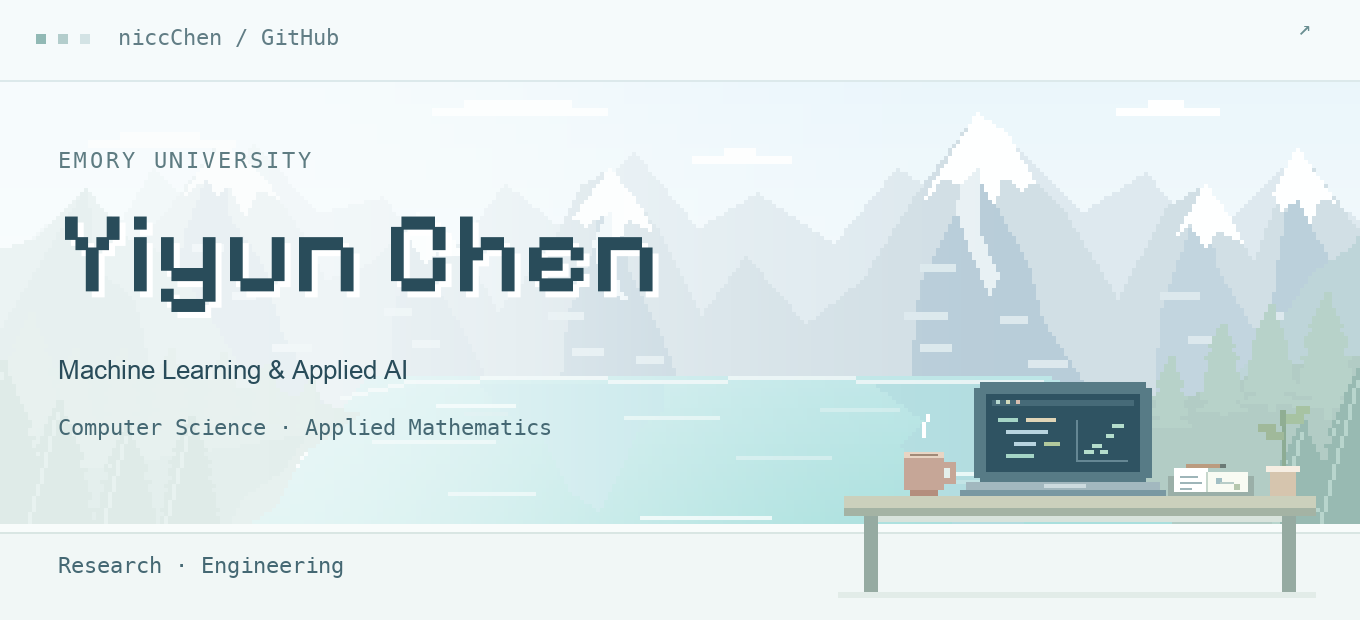
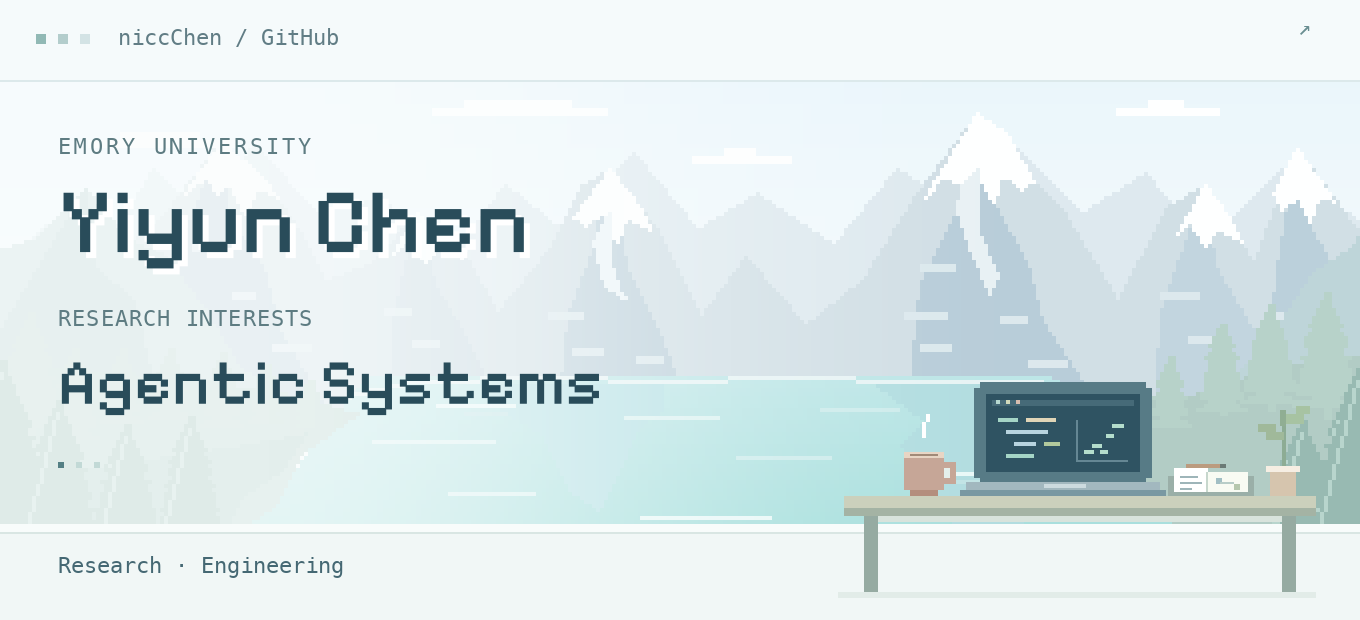
Highlight research interests with rotating pixel typography

Changed region(s): [[0.0309, 0.3065, 0.4941, 0.521], [0.0309, 0.5823, 0.4632, 0.7048], [0.0309, 0.2145, 0.2162, 0.2758]]

diff --git a/tools/build_assets.py b/tools/build_assets.py
@@ -12,6 +12,8 @@ PREVIEW = ROOT / ".preview"
 PREVIEW.mkdir(exist_ok=True)
 SCALE = 2
 WIDTH, HEIGHT = 680, 310
+BANNER_SECONDS = 9
+RESEARCH_INTERESTS = ("Agentic Systems", "NLP", "Probabilistic Forecasting")
 
 
 def font(name, size):
@@ -29,7 +31,8 @@ def font(name, size):
     raise FileNotFoundError(f"Install a font for {name}: {options[name]}")
 
 
-FONTS = {"pixel": font("pixel", 58), "small": font("mono", 11), "body": font("sans", 13)}
+FONTS = {"pixel": font("pixel", 46), "small": font("mono", 11),
+         "body": font("sans", 13), "focus": font("pixel", 32)}
 P = dict(edge="#62608b", frame="#8982ad", sky="#282443", night="#302b4e", moon="#ebe1ff", star="#cec1ee", cloud="#5d5686", desk="#b7a5d2", deskedge="#7e7198", cat="#ded6f0", catshade="#b5a6cd", ear="#a18daf", screen="#20223a", code="#a9d9cf", leaf="#9dbdb9", pot="#d8a7ba")
 
 
@@ -120,12 +123,12 @@ def draw_scene(img, t):
 def build_banner():
     from workspace_banner import make_frame
 
-    frames=[make_frame(i/10) for i in range(80)]
+    frames=[make_frame(i/10) for i in range(BANNER_SECONDS*10)]
     frames[0].save(ASSETS/"banner-work-life-static.png",optimize=True)
     palette=frames[0].quantize(colors=192,method=Image.Quantize.MEDIANCUT)
     indexed=[im.quantize(palette=palette,dither=Image.Dither.NONE) for im in frames]
     indexed[0].save(ASSETS/"banner-work-life.gif",save_all=True,append_images=indexed[1:],duration=100,loop=0,optimize=True,disposal=1)
-    samples=[frames[i].resize((680,310),Image.Resampling.LANCZOS) for i in [0,26,53,79]]
+    samples=[frames[i].resize((680,310),Image.Resampling.LANCZOS) for i in [0,30,60,89]]
     contact=Image.new("RGB",(1360,620),"white")
     for i,im in enumerate(samples):contact.paste(im,((i%2)*680,(i//2)*310))
     contact.save(PREVIEW/"banner-contact-sheet.png")
@@ -134,9 +137,10 @@ def build_banner():
 
 SKILLS=[
     ("Languages",[("Python","python"),("C#","csharp")]),
-    ("ML & vision",[("PyTorch","pytorch"),("OpenCV","opencv"),("SciPy",None),("scikit-image",None)]),
-    ("Data & viz",[("NumPy","numpy"),("pandas","pandas"),("Matplotlib",None),("Jupyter","jupyter")]),
-    ("Engineering",[("RAG",None),("MCP",None),(".NET",None),("Avalonia",None)]),
+    ("AI & NLP",[("PyTorch","pytorch"),("Transformers",None),("RAG",None),("MCP",None)]),
+    ("Data & scientific computing",[("NumPy","numpy"),("pandas","pandas"),("SciPy",None),("PyAMG",None),("Optuna",None)]),
+    ("Vision & visualization",[("OpenCV","opencv"),("scikit-image",None),("Matplotlib",None)]),
+    ("Engineering & tools",[(".NET",None),("Avalonia",None),("Pydantic",None),("Jupyter","jupyter"),("Git",None),("pytest",None)]),
 ]
 NS="http://www.w3.org/2000/svg"
 ET.register_namespace("",NS)
@@ -147,20 +151,20 @@ def slug(label):return label.lower().replace("#","sharp").replace(".","dot").rep
 
 def build_badges():
     widths={}
-    label_font=font("sans",12)
+    label_font=font("sans",14)
     for _,skills in SKILLS:
         for label,icon in skills:
-            width=math.ceil(label_font.getlength(label)/SCALE)+20+(21 if icon else 0)
+            width=math.ceil(label_font.getlength(label)/SCALE)+24+(24 if icon else 0)
             widths[label]=width
-            for theme,background,line,foreground in [("light","#eff7f6","#c9dedb","#456873"),("dark","#20343b","#38535d","#b2d6d5")]:
-                svg=ET.Element(f"{{{NS}}}svg",width=str(width),height="30",viewBox=f"0 0 {width} 30",role="img")
+            for theme,background,line,foreground in [("light","#eff7f6","#bfd8d4","#315661"),("dark","#20343b","#47626b","#c5e5e2")]:
+                svg=ET.Element(f"{{{NS}}}svg",width=str(width),height="36",viewBox=f"0 0 {width} 36",role="img")
                 ET.SubElement(svg,f"{{{NS}}}title").text=label
-                ET.SubElement(svg,f"{{{NS}}}rect",x=".5",y=".5",width=str(width-1),height="29",rx="6",fill=background,stroke=line)
+                ET.SubElement(svg,f"{{{NS}}}rect",x=".5",y=".5",width=str(width-1),height="35",rx="6",fill=background,stroke=line)
                 if icon:
                     source=ET.parse(ASSETS/f"icons/{icon}.svg").getroot()
-                    nested=ET.SubElement(svg,f"{{{NS}}}svg",x="9",y="7.5",width="15",height="15",viewBox=source.get("viewBox","0 0 128 128"))
+                    nested=ET.SubElement(svg,f"{{{NS}}}svg",x="11",y="9",width="18",height="18",viewBox=source.get("viewBox","0 0 128 128"))
                     for child in source:nested.append(deepcopy(child))
-                labelnode=ET.SubElement(svg,f"{{{NS}}}text",x="30" if icon else "10",y="19",fill=foreground,attrib={"font-family":"Arial, Helvetica, sans-serif","font-size":"12"})
+                labelnode=ET.SubElement(svg,f"{{{NS}}}text",x="36" if icon else "12",y="23",fill=foreground,attrib={"font-family":"Arial, Helvetica, sans-serif","font-size":"14"})
                 labelnode.text=label
                 ET.ElementTree(svg).write(ASSETS/f"badges/{slug(label)}-lake-{theme}.svg",encoding="utf-8",xml_declaration=False)
     return widths
@@ -169,7 +173,7 @@ def build_badges():
 def build_readme(widths):
     content='''<picture>
   <source media="(prefers-reduced-motion: reduce)" srcset="./assets/banner-work-life-static.png">
-  <img src="./assets/banner-work-life.gif" alt="Yiyun Chen — Machine Learning & Applied AI — Emory University. A light pixel workspace with a laptop, research notes, coffee, and a plant overlooking Banff-inspired mountains and a turquoise lake." width="100%">
+  <img src="./assets/banner-work-life.gif" alt="Yiyun Chen — Agentic Systems, NLP, and Probabilistic Forecasting — Emory University. A light pixel workspace overlooking Banff-inspired mountains and a turquoise lake." width="100%">
 </picture>
 
 <p align="center">
@@ -182,9 +186,19 @@ def build_readme(widths):
 
 I'm Yiyun (Nicole) Chen, an undergraduate at **Emory University** studying Computer Science and Applied Mathematics & Statistics.
 
-My research interests include **clinical NLP, multimodal reasoning, and probabilistic forecasting**. My applied AI work includes RAG pipelines and document intelligence.
+## 02 / Research interests
 
-## 02 / Technical skills
+My research interests span **agentic systems, natural language processing, and probabilistic forecasting**. I am interested in how agents use tools and structured feedback to solve complex tasks, how language models reason over contextual and clinical information, and how forecasting models represent uncertainty. Across these areas, I aim to connect rigorous evaluation with practical, reliable systems.
+
+| Research area | What I am interested in |
+| --- | --- |
+| **Agentic Systems** | Tool-using agents, structured workflows, and reliable evaluation. |
+| **Natural Language Processing** | Language understanding, clinical text reasoning, and document intelligence. |
+| **Probabilistic Forecasting** | Time-series modeling, uncertainty quantification, and calibrated predictions. |
+
+## 03 / Skills & tools
+
+**Tool Use** · **Structured Outputs** · **Model Evaluation**
 
 <table>
 '''
@@ -192,7 +206,7 @@ My research interests include **clinical NLP, multimodal reasoning, and probabil
         content+=f"  <tr>\n    <td><strong>{category.replace('&','&amp;')}</strong></td>\n    <td>\n"
         for label,_ in skills:
             name=slug(label)
-            content+=f'''      <picture><source media="(prefers-color-scheme: dark)" srcset="./assets/badges/{name}-lake-dark.svg"><img src="./assets/badges/{name}-lake-light.svg" alt="{label}" height="30" width="{widths[label]}"></picture>
+            content+=f'''      <picture><source media="(prefers-color-scheme: dark)" srcset="./assets/badges/{name}-lake-dark.svg"><img src="./assets/badges/{name}-lake-light.svg" alt="{label}" height="36" width="{widths[label]}"></picture>
 '''
         content+="    </td>\n  </tr>\n"
     content+='''</table>

diff --git a/tools/banff_banner.py b/tools/banff_banner.py
@@ -3,13 +3,13 @@ import math
 
 from PIL import Image, ImageDraw
 
-from build_assets import SCALE, WIDTH, HEIGHT, FONTS, rect, text, mix
+from build_assets import SCALE, WIDTH, HEIGHT, FONTS, BANNER_SECONDS, RESEARCH_INTERESTS, rect, text, mix
 
 
 def background(t=0):
     art=Image.new("RGB",(340,155))
     d=ImageDraw.Draw(art)
-    phase=math.tau*t/8
+    phase=math.tau*t/BANNER_SECONDS
     for y in range(155):
         d.line((0,y,339,y),fill=mix((226,242,250),(248,252,253),min(1,y/103)))
 
@@ -78,6 +78,27 @@ def background(t=0):
     return art
 
 
+def draw_interest(img, t):
+    """Scroll one pixel-font interest at a time through a clipped text slot."""
+    slot_width, slot_height = 446, 42
+    seconds_per_interest = BANNER_SECONDS / len(RESEARCH_INTERESTS)
+    index = int(t // seconds_per_interest) % len(RESEARCH_INTERESTS)
+    elapsed = t % seconds_per_interest
+    # Hold each keyword for 2.3 s, then roll upward for 0.7 s.
+    progress = max(0.0, (elapsed - (seconds_per_interest - .7)) / .7)
+    shift = round(slot_height * progress * progress * (3 - 2 * progress))
+    layer = Image.new("RGBA", (slot_width*SCALE, slot_height*SCALE))
+    ld = ImageDraw.Draw(layer)
+    text(ld, (0, 7-shift), RESEARCH_INTERESTS[index], FONTS["focus"], "#294c5a")
+    if shift:
+        text(ld, (0, 7+slot_height-shift), RESEARCH_INTERESTS[(index+1) % len(RESEARCH_INTERESTS)],
+             FONTS["focus"], "#294c5a")
+    img.paste(layer, (29*SCALE, 174*SCALE), layer)
+    d = ImageDraw.Draw(img)
+    for i in range(len(RESEARCH_INTERESTS)):
+        rect(d, 29+i*9, 231, 3, 3, "#547f84" if i == index else "#c2d9d6")
+
+
 def make_frame(t):
     img=background(t).resize((WIDTH*SCALE,HEIGHT*SCALE),Image.Resampling.NEAREST)
     # A soft white wash makes the landscape a light background for dark typography.
@@ -95,12 +116,11 @@ def make_frame(t):
     for x,c in [(18,"#91b9b5"),(29,"#b3cdcc"),(40,"#d3e3e5")]:rect(d,x,17,5,5,c)
     text(d,(59,14),"niccChen / GitHub",FONTS["small"],"#617d85")
     text(d,(WIDTH-31,13),"↗",FONTS["small"],"#698e91")
-    text(d,(29,76),"EMORY UNIVERSITY",FONTS["small"],"#5e7c82",1.5)
-    text(d,(32,111),"Yiyun Chen",FONTS["pixel"],"#ffffff")
-    text(d,(29,108),"Yiyun Chen",FONTS["pixel"],"#294c5a")
-    text(d,(29,180),"Machine Learning & Applied AI",FONTS["body"],"#294c5a")
-    text(d,(29,209),"Computer Science · Applied Mathematics",FONTS["small"],"#456873")
+    text(d,(29,69),"EMORY UNIVERSITY",FONTS["small"],"#5e7c82",1.5)
+    text(d,(32,99),"Yiyun Chen",FONTS["pixel"],"#ffffff")
+    text(d,(29,96),"Yiyun Chen",FONTS["pixel"],"#294c5a")
+    text(d,(29,155),"RESEARCH INTERESTS",FONTS["small"],"#5e7c82",.6)
+    draw_interest(img, t)
     text(d,(29,278),"Research · Engineering",FONTS["small"],"#456873")
     text(d,(591,278),"@niccChen",FONTS["small"],"#3d666d")
     return img
-

diff --git a/tools/workspace_banner.py b/tools/workspace_banner.py
@@ -4,13 +4,13 @@ import math
 from PIL import ImageDraw
 
 from banff_banner import make_frame as landscape_frame
-from build_assets import WIDTH, FONTS, rect, text
+from build_assets import WIDTH, FONTS, BANNER_SECONDS, rect, text
 
 
 def make_frame(t):
     img = landscape_frame(t)
     d = ImageDraw.Draw(img)
-    phase = math.tau * t / 8
+    phase = math.tau * t / BANNER_SECONDS
 
     # A broad sill places the landscape outside, and a quiet work corner inside.
     rect(d, 0, 267, WIDTH, 43, "#f1f7f6")
@@ -82,4 +82,3 @@ def make_frame(t):
 
     text(d, (29, 278), "Research · Engineering", FONTS["small"], "#456873")
     return img
-

diff --git a/README.md b/README.md
@@ -1,6 +1,6 @@
 <picture>
   <source media="(prefers-reduced-motion: reduce)" srcset="./assets/banner-work-life-static.png">
-  <img src="./assets/banner-work-life.gif" alt="Yiyun Chen — Machine Learning & Applied AI — Emory University. A light pixel workspace with a laptop, research notes, coffee, and a plant overlooking Banff-inspired mountains and a turquoise lake." width="100%">
+  <img src="./assets/banner-work-life.gif" alt="Yiyun Chen — Agentic Systems, NLP, and Probabilistic Forecasting — Emory University. A light pixel workspace overlooking Banff-inspired mountains and a turquoise lake." width="100%">
 </picture>
 
 <p align="center">
@@ -13,43 +13,64 @@
 
 I'm Yiyun (Nicole) Chen, an undergraduate at **Emory University** studying Computer Science and Applied Mathematics & Statistics.
 
-My research interests include **clinical NLP, multimodal reasoning, and probabilistic forecasting**. My applied AI work includes RAG pipelines and document intelligence.
+## 02 / Research interests
 
-## 02 / Technical skills
+My research interests span **agentic systems, natural language processing, and probabilistic forecasting**. I am interested in how agents use tools and structured feedback to solve complex tasks, how language models reason over contextual and clinical information, and how forecasting models represent uncertainty. Across these areas, I aim to connect rigorous evaluation with practical, reliable systems.
+
+| Research area | What I am interested in |
+| --- | --- |
+| **Agentic Systems** | Tool-using agents, structured workflows, and reliable evaluation. |
+| **Natural Language Processing** | Language understanding, clinical text reasoning, and document intelligence. |
+| **Probabilistic Forecasting** | Time-series modeling, uncertainty quantification, and calibrated predictions. |
+
+## 03 / Skills & tools
+
+**Tool Use** · **Structured Outputs** · **Model Evaluation**
 
 <table>
   <tr>
     <td><strong>Languages</strong></td>
     <td>
-      <picture><source media="(prefers-color-scheme: dark)" srcset="./assets/badges/python-lake-dark.svg"><img src="./assets/badges/python-lake-light.svg" alt="Python" height="30" width="78"></picture>
-      <picture><source media="(prefers-color-scheme: dark)" srcset="./assets/badges/csharp-lake-dark.svg"><img src="./assets/badges/csharp-lake-light.svg" alt="C#" height="30" width="56"></picture>
+      <picture><source media="(prefers-color-scheme: dark)" srcset="./assets/badges/python-lake-dark.svg"><img src="./assets/badges/python-lake-light.svg" alt="Python" height="36" width="93"></picture>
+      <picture><source media="(prefers-color-scheme: dark)" srcset="./assets/badges/csharp-lake-dark.svg"><img src="./assets/badges/csharp-lake-light.svg" alt="C#" height="36" width="66"></picture>
     </td>
   </tr>
   <tr>
-    <td><strong>ML &amp; vision</strong></td>
+    <td><strong>AI &amp; NLP</strong></td>
     <td>
-      <picture><source media="(prefers-color-scheme: dark)" srcset="./assets/badges/pytorch-lake-dark.svg"><img src="./assets/badges/pytorch-lake-light.svg" alt="PyTorch" height="30" width="86"></picture>
-      <picture><source media="(prefers-color-scheme: dark)" srcset="./assets/badges/opencv-lake-dark.svg"><img src="./assets/badges/opencv-lake-light.svg" alt="OpenCV" height="30" width="87"></picture>
-      <picture><source media="(prefers-color-scheme: dark)" srcset="./assets/badges/scipy-lake-dark.svg"><img src="./assets/badges/scipy-lake-light.svg" alt="SciPy" height="30" width="51"></picture>
-      <picture><source media="(prefers-color-scheme: dark)" srcset="./assets/badges/scikit-image-lake-dark.svg"><img src="./assets/badges/scikit-image-lake-light.svg" alt="scikit-image" height="30" width="83"></picture>
+      <picture><source media="(prefers-color-scheme: dark)" srcset="./assets/badges/pytorch-lake-dark.svg"><img src="./assets/badges/pytorch-lake-light.svg" alt="PyTorch" height="36" width="101"></picture>
+      <picture><source media="(prefers-color-scheme: dark)" srcset="./assets/badges/transformers-lake-dark.svg"><img src="./assets/badges/transformers-lake-light.svg" alt="Transformers" height="36" width="108"></picture>
+      <picture><source media="(prefers-color-scheme: dark)" srcset="./assets/badges/rag-lake-dark.svg"><img src="./assets/badges/rag-lake-light.svg" alt="RAG" height="36" width="55"></picture>
+      <picture><source media="(prefers-color-scheme: dark)" srcset="./assets/badges/mcp-lake-dark.svg"><img src="./assets/badges/mcp-lake-light.svg" alt="MCP" height="36" width="55"></picture>
     </td>
   </tr>
   <tr>
-    <td><strong>Data &amp; viz</strong></td>
+    <td><strong>Data &amp; scientific computing</strong></td>
     <td>
-      <picture><source media="(prefers-color-scheme: dark)" srcset="./assets/badges/numpy-lake-dark.svg"><img src="./assets/badges/numpy-lake-light.svg" alt="NumPy" height="30" width="80"></picture>
-      <picture><source media="(prefers-color-scheme: dark)" srcset="./assets/badges/pandas-lake-dark.svg"><img src="./assets/badges/pandas-lake-light.svg" alt="pandas" height="30" width="80"></picture>
-      <picture><source media="(prefers-color-scheme: dark)" srcset="./assets/badges/matplotlib-lake-dark.svg"><img src="./assets/badges/matplotlib-lake-light.svg" alt="Matplotlib" height="30" width="71"></picture>
-      <picture><source media="(prefers-color-scheme: dark)" srcset="./assets/badges/jupyter-lake-dark.svg"><img src="./assets/badges/jupyter-lake-light.svg" alt="Jupyter" height="30" width="80"></picture>
+      <picture><source media="(prefers-color-scheme: dark)" srcset="./assets/badges/numpy-lake-dark.svg"><img src="./assets/badges/numpy-lake-light.svg" alt="NumPy" height="36" width="94"></picture>
+      <picture><source media="(prefers-color-scheme: dark)" srcset="./assets/badges/pandas-lake-dark.svg"><img src="./assets/badges/pandas-lake-light.svg" alt="pandas" height="36" width="95"></picture>
+      <picture><source media="(prefers-color-scheme: dark)" srcset="./assets/badges/scipy-lake-dark.svg"><img src="./assets/badges/scipy-lake-light.svg" alt="SciPy" height="36" width="60"></picture>
+      <picture><source media="(prefers-color-scheme: dark)" srcset="./assets/badges/pyamg-lake-dark.svg"><img src="./assets/badges/pyamg-lake-light.svg" alt="PyAMG" height="36" width="73"></picture>
+      <picture><source media="(prefers-color-scheme: dark)" srcset="./assets/badges/optuna-lake-dark.svg"><img src="./assets/badges/optuna-lake-light.svg" alt="Optuna" height="36" width="71"></picture>
     </td>
   </tr>
   <tr>
-    <td><strong>Engineering</strong></td>
+    <td><strong>Vision &amp; visualization</strong></td>
     <td>
-      <picture><source media="(prefers-color-scheme: dark)" srcset="./assets/badges/rag-lake-dark.svg"><img src="./assets/badges/rag-lake-light.svg" alt="RAG" height="30" width="46"></picture>
-      <picture><source media="(prefers-color-scheme: dark)" srcset="./assets/badges/mcp-lake-dark.svg"><img src="./assets/badges/mcp-lake-light.svg" alt="MCP" height="30" width="47"></picture>
-      <picture><source media="(prefers-color-scheme: dark)" srcset="./assets/badges/dotnet-lake-dark.svg"><img src="./assets/badges/dotnet-lake-light.svg" alt=".NET" height="30" width="48"></picture>
-      <picture><source media="(prefers-color-scheme: dark)" srcset="./assets/badges/avalonia-lake-dark.svg"><img src="./assets/badges/avalonia-lake-light.svg" alt="Avalonia" height="30" width="65"></picture>
+      <picture><source media="(prefers-color-scheme: dark)" srcset="./assets/badges/opencv-lake-dark.svg"><img src="./assets/badges/opencv-lake-light.svg" alt="OpenCV" height="36" width="103"></picture>
+      <picture><source media="(prefers-color-scheme: dark)" srcset="./assets/badges/scikit-image-lake-dark.svg"><img src="./assets/badges/scikit-image-lake-light.svg" alt="scikit-image" height="36" width="98"></picture>
+      <picture><source media="(prefers-color-scheme: dark)" srcset="./assets/badges/matplotlib-lake-dark.svg"><img src="./assets/badges/matplotlib-lake-light.svg" alt="Matplotlib" height="36" width="85"></picture>
+    </td>
+  </tr>
+  <tr>
+    <td><strong>Engineering &amp; tools</strong></td>
+    <td>
+      <picture><source media="(prefers-color-scheme: dark)" srcset="./assets/badges/dotnet-lake-dark.svg"><img src="./assets/badges/dotnet-lake-light.svg" alt=".NET" height="36" width="56"></picture>
+      <picture><source media="(prefers-color-scheme: dark)" srcset="./assets/badges/avalonia-lake-dark.svg"><img src="./assets/badges/avalonia-lake-light.svg" alt="Avalonia" height="36" width="79"></picture>
+      <picture><source media="(prefers-color-scheme: dark)" srcset="./assets/badges/pydantic-lake-dark.svg"><img src="./assets/badges/pydantic-lake-light.svg" alt="Pydantic" height="36" width="79"></picture>
+      <picture><source media="(prefers-color-scheme: dark)" srcset="./assets/badges/jupyter-lake-dark.svg"><img src="./assets/badges/jupyter-lake-light.svg" alt="Jupyter" height="36" width="95"></picture>
+      <picture><source media="(prefers-color-scheme: dark)" srcset="./assets/badges/git-lake-dark.svg"><img src="./assets/badges/git-lake-light.svg" alt="Git" height="36" width="42"></picture>
+      <picture><source media="(prefers-color-scheme: dark)" srcset="./assets/badges/pytest-lake-dark.svg"><img src="./assets/badges/pytest-lake-light.svg" alt="pytest" height="36" width="62"></picture>
     </td>
   </tr>
 </table>
